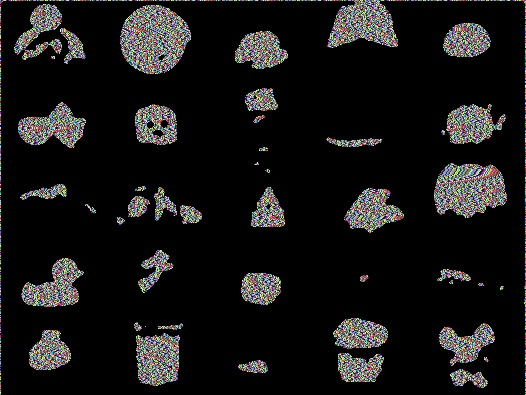
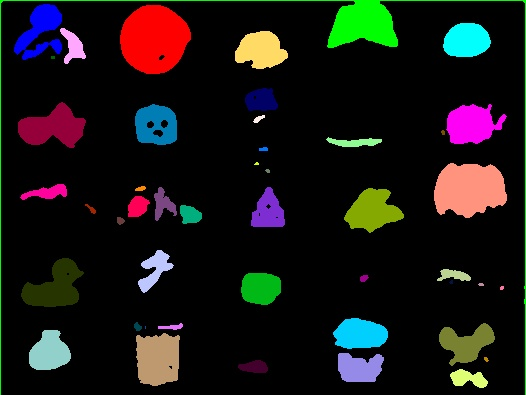
First version of parallel dev

diff --git a/main.cpp b/main.cpp
@@ -64,6 +64,44 @@ void connected_component_labeling_serial(int** a, int rows, int cols){
 }
 
 
+//void merge_tiles1(int* a, pair<int, int> start, pair<int, int> stop, int cols){
+//    for (int i = start.first ; i <= stop.first; ++i){
+//        for (int j = start.second; j <= stop.second; ++j){
+//            if(!a[i][j]){
+//                continue;
+//            }
+//            vector<int> neighbours;
+//            int m = numeric_limits<int>::max();
+//            for(auto d : all_directions){
+//                int ncol = j + d.second;
+//                int nrow = i + d.first;
+//                if ((ncol >= start.second && ncol <= stop.second) && (nrow >= start.first && nrow <= stop.first)){
+//                    int neighbour = a[nrow][ncol];
+//                    if(neighbour){
+//                        neighbours.push_back(neighbour);
+//                        m = min(m, neighbour);
+//                    }
+//                }
+//            }
+//            if(neighbours.empty()){
+//                make_set(global_parent, a[i][j]);
+//            }
+//            else {
+//                a[i][j] = m;
+//                for (int n : neighbours){
+////                        cout << "M(" << m  << " " << n  << ") ";
+//                    if(global_parent.find(n) == global_parent.end()){
+//                        make_set(global_parent, n);
+//                    }
+//                    union_sets(global_parent, m, find_root(global_parent, n));
+//
+//                }
+////                cout << endl;
+//            }
+//        }
+//    }
+//}
+
 void merge_tiles(int** a, pair<int, int> start, pair<int, int> stop){
 //    cout << start.first << " " << start.second << " " << stop.first << " " << stop.second << endl;
     for (int i = start.first ; i <= stop.first; ++i){
@@ -73,7 +111,7 @@ void merge_tiles(int** a, pair<int, int> start, pair<int, int> stop){
             }
             vector<int> neighbours;
             int m = numeric_limits<int>::max();
-            for(auto d : directions){
+            for(auto d : all_directions){
                 int ncol = j + d.second;
                 int nrow = i + d.first;
                 if ((ncol >= start.second && ncol <= stop.second) && (nrow >= start.first && nrow <= stop.first)){
@@ -90,10 +128,14 @@ void merge_tiles(int** a, pair<int, int> start, pair<int, int> stop){
             else {
                 a[i][j] = m;
                 for (int n : neighbours){
-                    union_sets(global_parent, m, find_root(global_parent, n));
-                    cout << m << " " << n << "; ";
+//                        cout << "M(" << m  << " " << n  << ") ";
+                        if(global_parent.find(n) == global_parent.end()){
+                            make_set(global_parent, n);
+                        }
+                        union_sets(global_parent, m, find_root(global_parent, n));
+
                 }
-                cout << "\n";
+//                cout << endl;
             }
         }
     }
@@ -113,7 +155,8 @@ void merge_parent(int *parent, int sz){
 //        if(global_parent.find(parent[i]) == global_parent.end()){
             global_parent[parent[i]] = {parent[i+1], parent[i+2]};
 //        } else{
-//            global_parent[parent[i]].second = parent[i+2];
+//
+// global_parent[parent[i]].second = parent[i+2];
 //        }
     }
 }
@@ -123,9 +166,14 @@ int connected_component_labeling_parallel_util(int** a, int rows, int cols, pair
     int size = rows * cols;
 //    cout << rows << " "  << cols  << " cords\t" << start.first  << " "  << start.second << " " << stop.first << " " << stop.second<< endl;
     if(size == 1){
+//        make_set(global_parent, a[start.first][start.second]);
         return 0;
     }
-    if(size <= TILE_SIZE){
+    if(size < TILE_SIZE){
+        merge_tiles(a, start, stop);
+        return 0;
+    }
+    if(size == TILE_SIZE){
 //        cout << "RIP\n";
         int msg_to_send [size + 4];
         MPI_Request req;
@@ -143,8 +191,8 @@ int connected_component_labeling_parallel_util(int** a, int rows, int cols, pair
 //            cout << endl;
         }
         //TODO cu isend
-        MPI_Send(msg_to_send, size + 4, MPI_INT, dest, LABEL_TAG, MPI_COMM_WORLD);
-    //    MPI_Isend(msg_to_send, size + 2, MPI_INT, dest, LABEL_TAG, MPI_COMM_WORLD, &req);
+       // MPI_Send(msg_to_send, size + 4, MPI_INT, dest, LABEL_TAG, MPI_COMM_WORLD);
+        MPI_Isend(msg_to_send, size + 2, MPI_INT, dest, LABEL_TAG, MPI_COMM_WORLD, &req);
         dest = (dest + 1) % numprocs + 1;
         return 1;
     }
@@ -152,15 +200,8 @@ int connected_component_labeling_parallel_util(int** a, int rows, int cols, pair
 
         int new_rows = rows / 2 - 1;
         int new_cols = cols / 2 - 1;
-        int rows_left = new_rows ;
-        int cols_left = new_cols ;
-        int mod_rows = rows % 2, mod_cols = cols % 2;
-        if (mod_rows){
-            rows_left += mod_rows;
-        }
-        if (mod_cols){
-            cols_left += mod_cols;
-        }
+        int rows_left = new_rows + rows % 2;
+        int cols_left = new_cols + cols % 2;
         int n_sends = 0;
         n_sends += connected_component_labeling_parallel_util(a, new_rows + 1 , new_cols + 1 , start , {start.first + new_rows, start.second + new_cols});
         n_sends += connected_component_labeling_parallel_util(a, new_rows + 1, cols_left + 1, {start.first, start.second + new_cols + 1}, {start.first + new_rows, start.second + new_cols + cols_left + 1});
@@ -171,34 +212,11 @@ int connected_component_labeling_parallel_util(int** a, int rows, int cols, pair
 //            int* tiles = new int[recv_size * 4];
 //            cout << "DADA\n";
             for(int i = 0 ; i < n_sends; i++){
-                int tile [recv_size], s_i, s_j, r, c;
+                int tile [recv_size], r, c;
                 MPI_Recv(tile, recv_size, MPI_INT, MPI_ANY_SOURCE, LABEL_TAG, MPI_COMM_WORLD, MPI_STATUS_IGNORE);
                 int* tl = tile + 5;
                 r = tile[3];
                 c = tile[4];
-
-//                if(tile[0] == start.first){
-//                    s_i  = start.first + new_rows;
-//                    r = new_rows + 1;
-//                    c = new_cols + 1;
-//                    if(tile[1] == start.second){
-//                        s_j = start.second + new_cols;
-//                    } else{
-//                        s_j = start.second + new_cols + cols_left + 1;
-//                        c = cols_left + 1;
-//                    }
-//                } else{
-//                    r = rows_left + 1;
-//                    c = new_cols + 1;
-//                    if(tile[1] == start.second){
-//                        s_i  = start.first + new_rows + rows_left + 1;
-//                        s_j = start.second + new_cols;
-//                    } else{
-//                        s_i  = stop.first;
-//                        s_j = stop.second;
-//                        c += cols_left;
-//                    }
-//                }
 //              cout << r << " " << c << " start  " << tile[0] << " " << tile[1] << " " << tile[0] + r -1 << " "<< tile[1] + c -1 <<endl;
                 for(int k = tile[0], kk = 0; kk < r ; k++, kk++){
                     for(int l = tile[1], ll = 0; ll < c; l++, ll++){
@@ -210,10 +228,9 @@ int connected_component_labeling_parallel_util(int** a, int rows, int cols, pair
                 merge_parent(tl + r * c, tile[2]);
 
             }
-//            cout << "MASTER DONE\n";
         }
         merge_tiles(a, {start.first, start.second + new_cols}, {start.first + new_rows, start.second + new_cols + 1}); //top-left and top-rght
-        merge_tiles(a, {start.first + new_rows + 1, start.second + new_cols}, {start.first + new_rows + rows_left, start.second + new_cols + 1 }); //down-left and down-right
+        merge_tiles(a, {start.first + new_rows + 1, start.second + new_cols}, {stop.first, start.second + new_cols + 1 }); //down-left and down-right
         merge_tiles(a, {start.first + new_rows, start.second}, {start.first + new_rows + 1, stop.second}); // top merged and down merged
     }
 
@@ -225,19 +242,43 @@ int connected_component_labeling_parallel_util(int** a, int rows, int cols, pair
 
 void connected_component_labeling_parallel(int** a, int rows, int cols) {
     connected_component_labeling_parallel_util(a, rows, cols, {0, 0}, {rows - 1, cols - 1});
-    for(auto dd : global_parent){
-        cout << dd.first << " ("  << dd.second.first << " " << dd.second.second << ") " ;
+    MPI_Request req;
+    int parent_size = 3 * global_parent.size() + 1;
+
+    for(int i = 1; i <= numprocs; i++){
+        MPI_Isend(&parent_size, 1, MPI_INT, dest, END_TAG, MPI_COMM_WORLD, &req);
+
     }
-    cout << endl;
-    //parallel with scatter
-//    for (int i = 0 ; i < rows; ++i){
-//        for (int j = 0; j < cols; ++j){
-//            if(!a[i][j]){
-//                continue;
-//            }
-//            a[i][j] = find_root(global_parent, a[i][j]);
-//        }
+//    int *par_sz= new int[parent_size];
+//    par_sz[1] = parent_size;
+//    int i = 0;
+//    for(auto x : global_parent){
+//        par_sz[i] = x.first;
+//        par_sz[i + 1] = x.second.first;
+//        par_sz[i + 2] = x.second.second;
+//        i += 3;
 //    }
+//
+//    MPI_Bcast(par_sz, parent_size + 1, MPI_INT, 0, MPI_COMM_WORLD);
+//    MPI_SCATT
+
+//    for(auto dd : global_parent){
+//        cout << dd.first << " ("  << dd.second.first << " " << dd.second.second << ") " ;
+//    }
+//    cout << endl;
+    //parallel with scatter
+    for (int i = 0 ; i < rows; ++i){
+        for (int j = 0; j < cols; ++j){
+            if(!a[i][j]){
+                continue;
+            }
+           if(global_parent.find(a[i][j]) != global_parent.end()){
+                a[i][j] = find_root(global_parent, a[i][j]);
+            }
+        }
+    }
+//    delete [] par_sz;
+
 }
 
 
@@ -283,32 +324,32 @@ int master_main(int argc, char* argv[]){
     Mat img = imread(argv[1]);
     Mat out = transform_image_2_binary(img, method);
     int rows = out.rows , cols = out.cols;
-    //int** data = convert_mat(out);
+    int** data = convert_mat(out);
 
      //testing
-    rows = 9;
-    cols = 9;
-    int** data = new int*[rows];
-    for (int i = 0; i < rows; ++i){
-        data[i] = new int[cols];
-    }
-    for(int i = 0; i< rows; i++){
-        for(int j = 0; j< cols; j++){
-            data[i][j] = 0;
-            if(i % 3){
-                data[i][j] = i*rows + j + 1;
-            } else{
-                data[i][j] = 0;
-            }
-        }
-    }
-    for(int i = 0; i< rows; i++){
-        for(int j = 0; j< cols; j++){
-            cout << data[i][j] << "\t";
-        }
-        cout << endl;
-    }
-    cout << "\n\n\n";
+//    rows = 9;
+//    cols = 9;
+//    int** data = new int*[rows];
+//    for (int i = 0; i < rows; ++i){
+//        data[i] = new int[cols];
+//    }
+//    for(int i = 0; i< rows; i++){
+//        for(int j = 0; j< cols; j++){
+//            data[i][j] = 0;
+//            if(i % 3){
+//                data[i][j] = i*rows + j + 1;
+//            } else{
+//                data[i][j] = 0;
+//            }
+//        }
+//    }
+//    for(int i = 0; i< rows; i++){
+//        for(int j = 0; j< cols; j++){
+//            cout << data[i][j] << "\t";
+//        }
+//        cout << endl;
+//    }
+//    cout << "\n\n\n";
 
     //
     high_resolution_clock::time_point start = high_resolution_clock::now();
@@ -317,24 +358,24 @@ int master_main(int argc, char* argv[]){
     float duration = duration_cast<chrono::duration<float>>( stop - start ).count();
 
 
-
 //
-   this_thread::sleep_for( (chrono::seconds(1)));
-    cout << "\n\n\n";
-
-    for(int i = 0; i< rows; i++){
-        for(int j = 0; j< cols; j++){
-            cout << data[i][j] << "\t";
-        }
-        cout << endl;
-    }
-    return 0;
-    exit(0);
+////
+//   this_thread::sleep_for( (chrono::seconds(1)));
+//    cout << "\n\n\n";
+//
+//    for(int i = 0; i< rows; i++){
+//        for(int j = 0; j< cols; j++){
+//            cout << data[i][j] << "\t";
+//        }
+//        cout << endl;
+//    }
+//    return 0;
+//    exit(0);
     cout << run_type << " Connected Component Labeling Duration = " << duration << " seconds\n";
     uchar* colored = color_labels(data, rows, cols);
     Mat final = create_output_mat(colored, rows, cols);
-    imwrite("./black-white.jpg", out);
-    imwrite("./output.jpg", final);
+    imwrite("./black-white" + run_type + ".jpg", out);
+    imwrite("./output"  + run_type + ".jpg", final);
     if (show_images){
         imshow("Input", img);
         imshow("Intermediary", out);
@@ -415,7 +456,7 @@ int slave_main(int rank){
             par_sz[i] = x.first;
             par_sz[i + 1] = x.second.first;
             par_sz[i + 2] = x.second.second;
-//            cout << "x " << x.first << " " << x.second.first << " ";
+//            cout << "x " << x.first << " " << x.second.first << " " << x.second.second;
             i += 3;
         }
 //        cout << "i= " << i << " "  << parent_size << endl;
@@ -424,7 +465,7 @@ int slave_main(int rank){
 //            for(int j= 0 ; j < cols; j++){
 //                cout << b[ii * cols + j] << " ";
 //            }
-//            cout << endl;
+//         cout << endl;
 //        }
         int all_size = 5 + TILE_SIZE  + parent_size;
         int* all = new int[all_size];
@@ -452,6 +493,29 @@ int slave_main(int rank){
         delete [] all;
         delete [] par_sz;
     }
+//    int recv_sz[1], sz;
+//    MPI_Recv(recv_sz, 1, MPI_INT, 0, MPI_ANY_TAG, MPI_COMM_WORLD, &status);
+//    sz = recv_sz[0];
+//    unordered_map<int, pair<int, int>> par;
+//    int* recv = new int[sz];
+//    MPI_Bcast(recv, sz, MPI_INT, 0, MPI_COMM_WORLD);
+//    for(int i = 0 ; i < sz; i +=3 ){
+//        par[recv[i]].first = recv[i+1];
+//        par[recv[i]].second = recv[i+2];
+//    }
+//    for (int i = 0 ; i < rows; ++i){
+//        for (int j = 0; j < cols; ++j){
+//            if(!a[i][j]){
+//                continue;
+//            }
+//            if(par.find(a[i][j]) != global_parent.end()){
+//                a[i][j] = find_root(global_parent, a[i][j]);
+//            }
+//        }
+//    }
+
+
+
     return 0;
 }
 

diff --git a/src/union_find.cpp b/src/union_find.cpp
@@ -10,6 +10,13 @@ int find_root(std::unordered_map<int, std::pair<int, int>>& parent, int x){
 
 
 void union_sets(std::unordered_map<int, std::pair<int, int>>& parent, int x, int y){
+    if(parent.find(x) == parent.end()){
+        return;
+    }
+    if(parent.find(y) == parent.end()){
+        return;
+    }
+
     int root1 = find_root(parent, x);
     int root2 = find_root(parent, y);
     if (root1 == root2){
